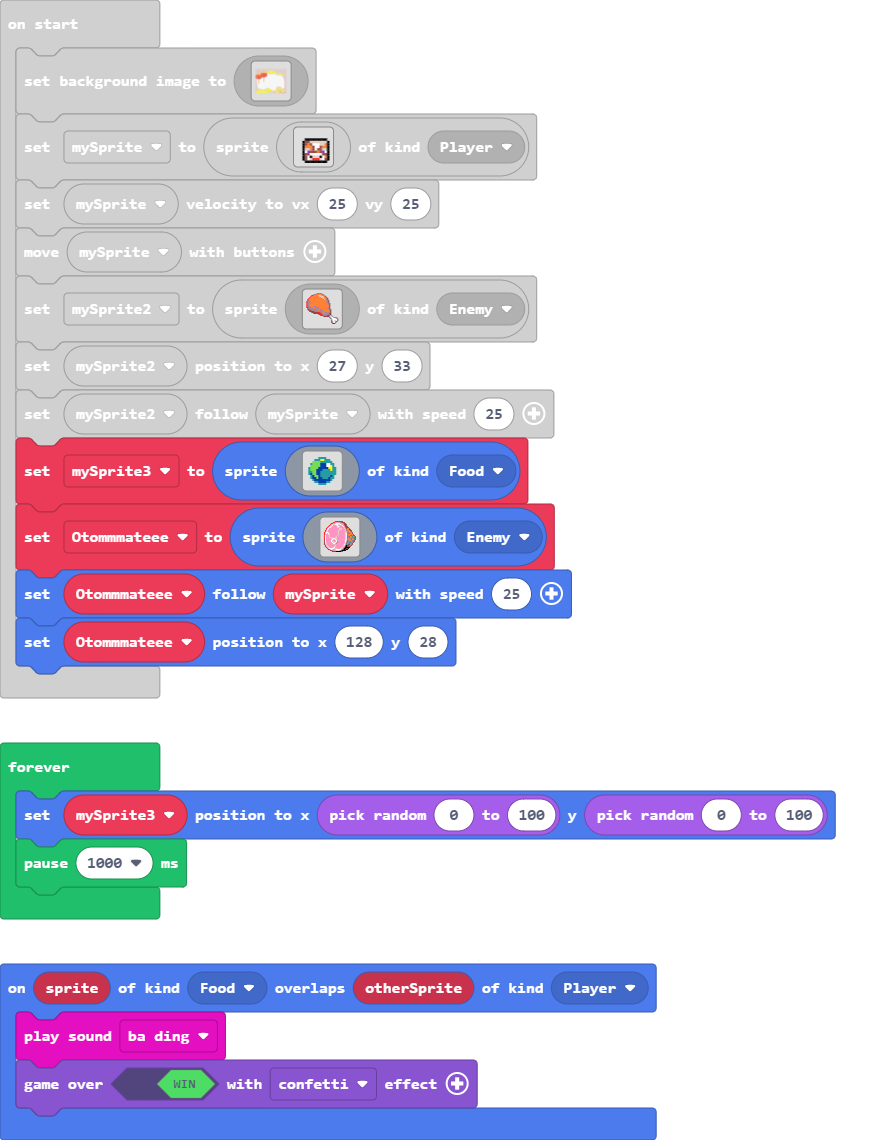
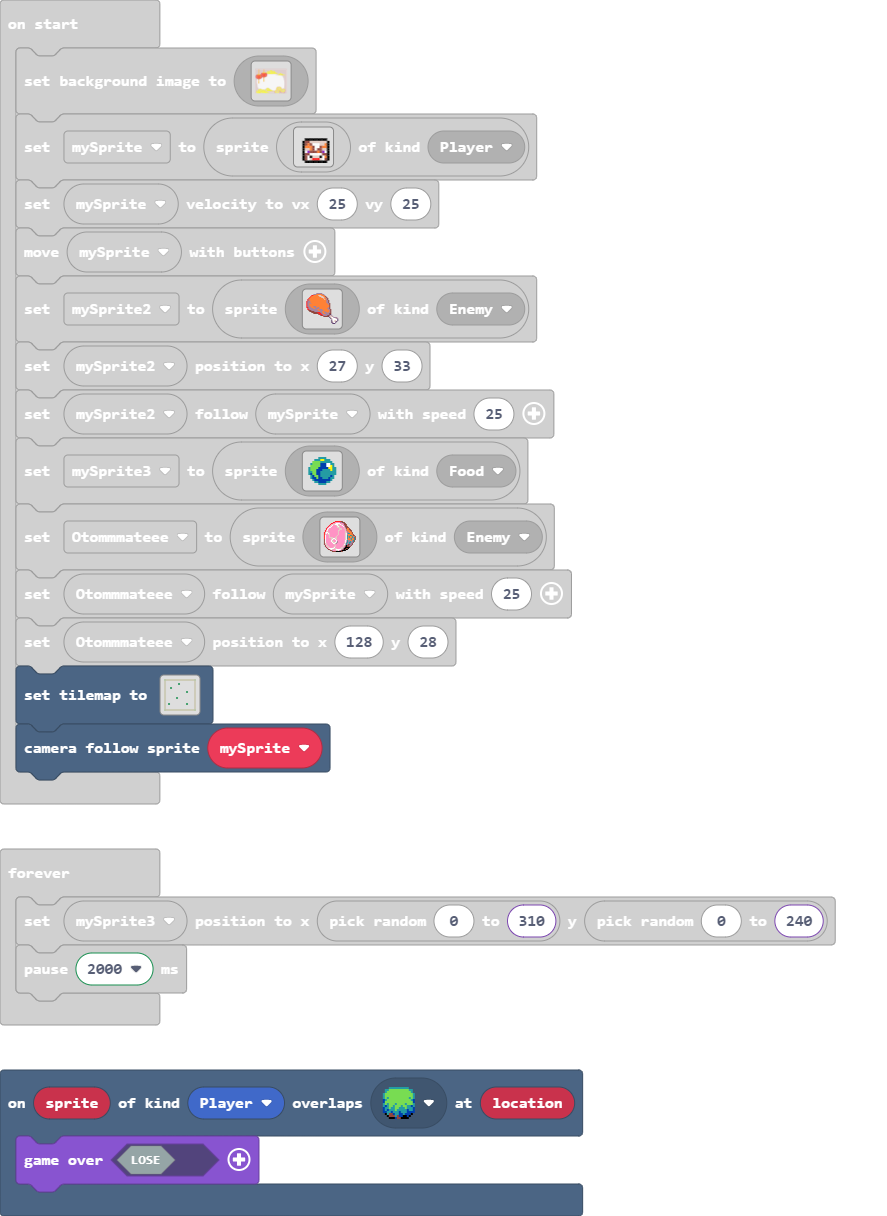
Update main.blocks, main.ts, tilemap.g.jres, tilemap.g.ts

diff --git a/tilemap.g.ts b/tilemap.g.ts
@@ -3,6 +3,31 @@ namespace myTiles {
     //% fixedInstance jres blockIdentity=images._tile
     export const transparency16 = image.ofBuffer(hex``);
 
+    helpers._registerFactory("tilemap", function(name: string) {
+        switch(helpers.stringTrim(name)) {
+            case "level1":
+            case "level1":return tiles.createTilemap(hex`1000100003050505050505050505050505050504080000000000000000000000000000060800000000000009000000000000000608000000000000000000000000000006080000090000000000000000000000060800000000000000000000000000000608000000000000000000000900000006080000000000000000000000000000060800000000000000000000000000000608000000000009000000000000000006080000000000000000000000000000060800000000000000000000000000000608000900000000000000000900000006080000000000000000000000000000060800000000000000000000000000000602070707070707070707070707070701`, img`
+. . . . . . . . . . . . . . . . 
+. . . . . . . . . . . . . . . . 
+. . . . . . . . . . . . . . . . 
+. . . . . . . . . . . . . . . . 
+. . . . . . . . . . . . . . . . 
+. . . . . . . . . . . . . . . . 
+. . . . . . . . . . . . . . . . 
+. . . . . . . . . . . . . . . . 
+. . . . . . . . . . . . . . . . 
+. . . . . . . . . . . . . . . . 
+. . . . . . . . . . . . . . . . 
+. . . . . . . . . . . . . . . . 
+. . . . . . . . . . . . . . . . 
+. . . . . . . . . . . . . . . . 
+. . . . . . . . . . . . . . . . 
+. . . . . . . . . . . . . . . . 
+`, [myTiles.transparency16,sprites.castle.tilePath9,sprites.castle.tilePath7,sprites.castle.tilePath1,sprites.castle.tilePath3,sprites.castle.tilePath2,sprites.castle.tilePath6,sprites.castle.tilePath8,sprites.castle.tilePath4,sprites.builtin.forestTiles0], TileScale.Sixteen);
+        }
+        return null;
+    })
+
     helpers._registerFactory("tile", function(name: string) {
         switch(helpers.stringTrim(name)) {
             case "transparency16":return transparency16;

diff --git a/main.ts b/main.ts
@@ -1,6 +1,9 @@
 controller.B.onEvent(ControllerButtonEvent.Pressed, function () {
     mySprite2.setPosition(randint(-10, 100), randint(-10, 100))
 })
+scene.onOverlapTile(SpriteKind.Player, sprites.builtin.forestTiles0, function (sprite, location) {
+    game.over(false)
+})
 controller.A.onEvent(ControllerButtonEvent.Pressed, function () {
     controller.player1.moveSprite(mySprite, 100, 100)
 })
@@ -253,7 +256,9 @@ let Otommmateee = sprites.create(img`
     `, SpriteKind.Enemy)
 Otommmateee.follow(mySprite, 25)
 Otommmateee.setPosition(128, 28)
+tiles.setTilemap(tilemap`level1`)
+scene.cameraFollowSprite(mySprite)
 forever(function () {
-    mySprite3.setPosition(randint(0, 100), randint(0, 100))
-    pause(1000)
+    mySprite3.setPosition(randint(0, 310), randint(0, 240))
+    pause(2000)
 })
